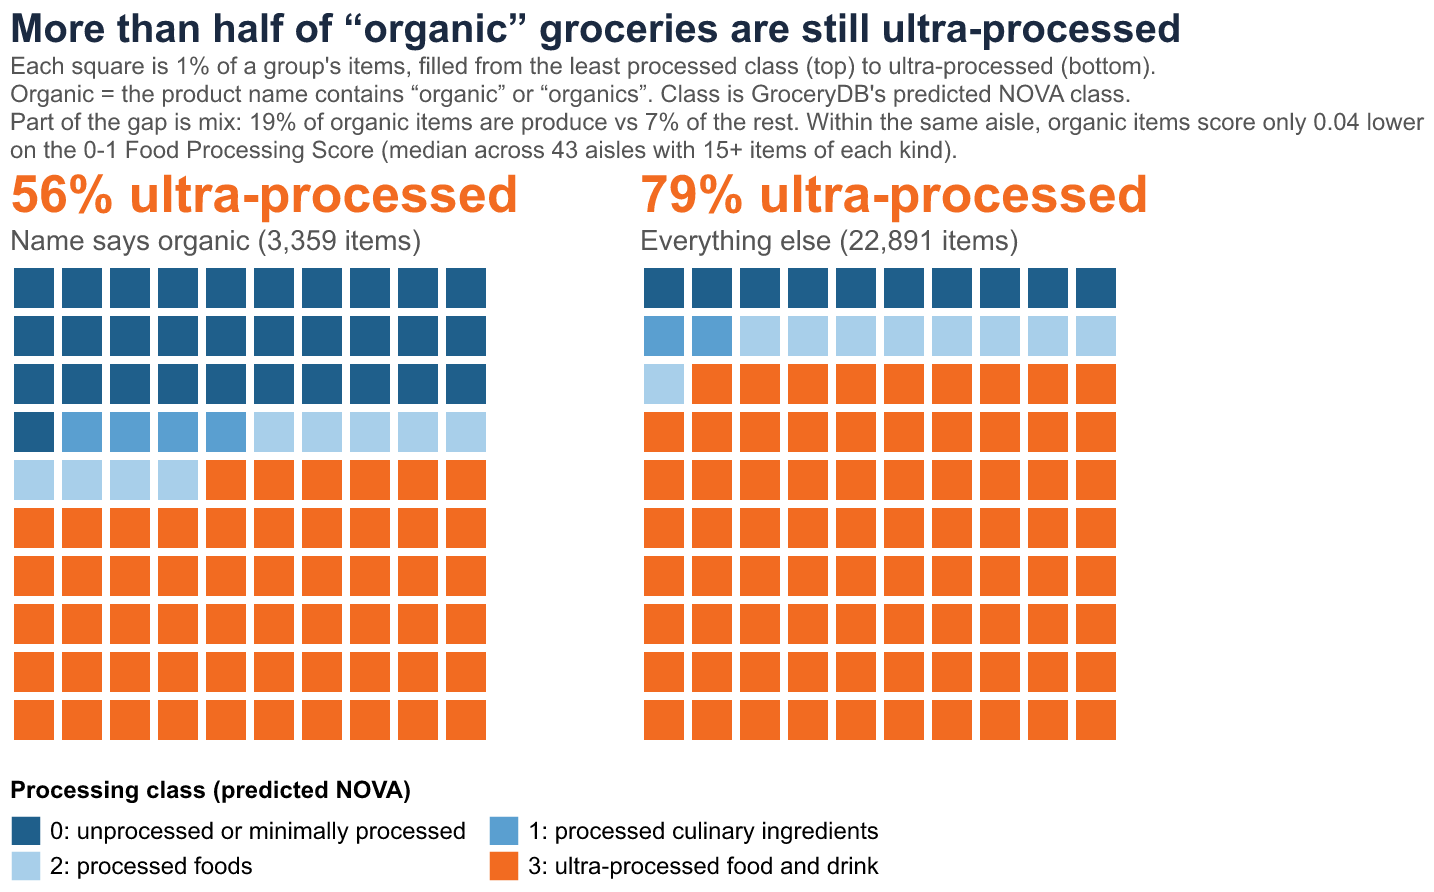
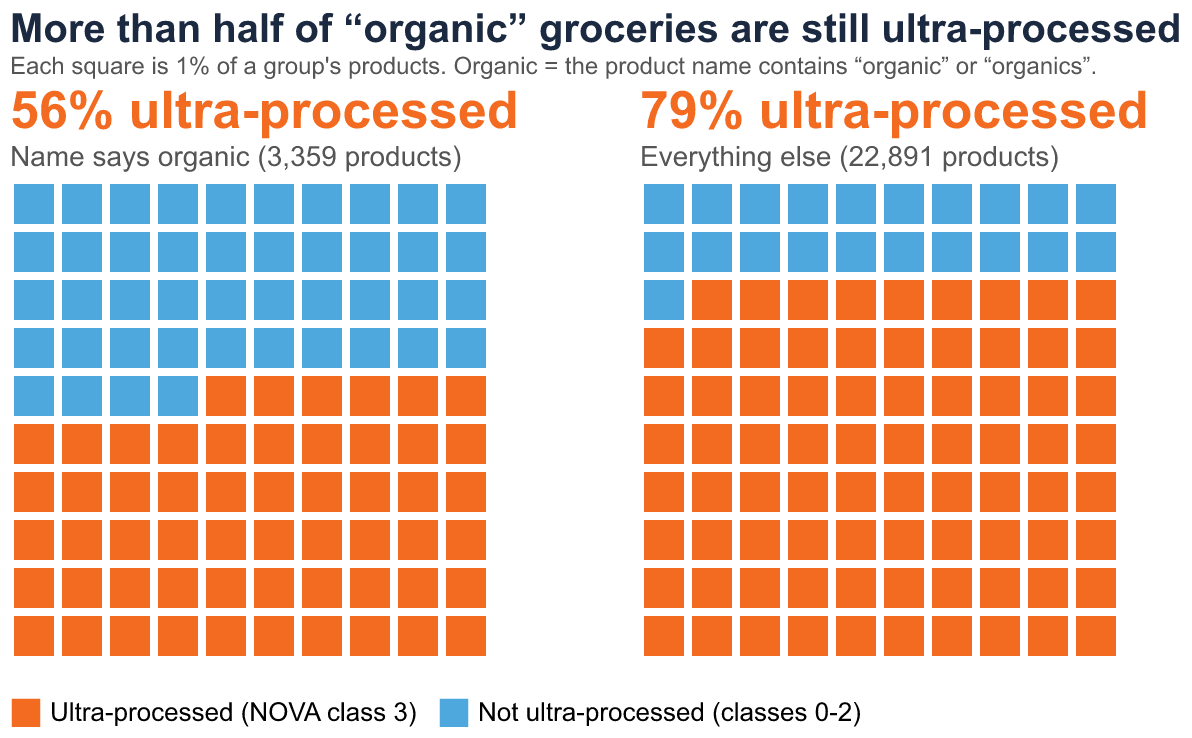
Project 1: simplify plot 2 to ultra-processed vs not, with a one-line subtitle

diff --git a/Project-1/project1/organic_plot.py b/Project-1/project1/organic_plot.py
@@ -1,45 +1,38 @@
-"""Plot 2: processing-class mix of organic-named products, as unit grids."""
+"""Plot 2: share of organic-named products that are ultra-processed, as unit grids."""
 from __future__ import annotations
 
 import altair as alt
 import pandas as pd
 
 from project1.data import GRID_SIDE, ORGANIC_GROUP, OTHER_GROUP
-from project1.theme import ACCENT, DARK, SUBTITLE, apply_theme
+from project1.theme import ACCENT, CONTEXT, DARK, SUBTITLE, apply_theme
 
-# Least processed class darkest, fading toward class 2, then the accent for
-# ultra-processed so the share the title talks about stands out.
-CLASS_COLORS: tuple[str, ...] = ("#1f5f8b", "#5a9fd0", "#a8cfea", ACCENT)
+ULTRA: str = "Ultra-processed (NOVA class 3)"
+NOT_ULTRA: str = "Not ultra-processed (classes 0-2)"
 
 CELL_PX: int = 24
 CELL_AREA: int = 400
 
 
-def build_organic_plot(
-    grid: pd.DataFrame, aisle_gap: float, n_aisles_compared: int
-) -> alt.TopLevelMixin:
+def build_organic_plot(grid: pd.DataFrame) -> alt.TopLevelMixin:
     """Draw one 10 x 10 grid per group, each cell one percent of its items.
 
     Args:
         grid: Output of :func:`project1.data.organic_class_grid`.
-        aisle_gap: Median within-aisle drop in processing score for organic items.
-        n_aisles_compared: Aisles behind ``aisle_gap``.
 
     Returns:
         A themed horizontal concatenation of the two grids.
     """
-    labels = list(grid.sort_values("nova")["class_label"].unique())
+    grid = grid.assign(kind=grid["ultra"].map({True: ULTRA, False: NOT_ULTRA}))
     color = alt.Color(
-        "class_label:N",
-        title="Processing class (predicted NOVA)",
-        scale=alt.Scale(domain=labels, range=list(CLASS_COLORS)),
+        "kind:N",
+        scale=alt.Scale(domain=[ULTRA, NOT_ULTRA], range=[ACCENT, CONTEXT]),
         legend=alt.Legend(
+            title=None,
             orient="bottom",
-            columns=2,
-            labelFontSize=12,
-            titleFontSize=12,
+            direction="horizontal",
+            labelFontSize=13,
             labelLimit=0,
-            titleLimit=0,
             symbolType="square",
             symbolSize=200,
         ),
@@ -47,16 +40,8 @@ def build_organic_plot(
     panels = [_grid_panel(grid[grid["group"] == group], color) for group in (ORGANIC_GROUP, OTHER_GROUP)]
     title = alt.TitleParams(
         "More than half of “organic” groceries are still ultra-processed",
-        subtitle=[
-            "Each square is 1% of a group's items, filled from the least processed class (top) "
-            "to ultra-processed (bottom).",
-            "Organic = the product name contains “organic” or “organics”. Class is GroceryDB's "
-            "predicted NOVA class.",
-            "Part of the gap is mix: 19% of organic items are produce vs 7% of the rest. Within the same aisle, "
-            f"organic items score only {aisle_gap:.2f} lower",
-            f"on the 0-1 Food Processing Score (median across {n_aisles_compared} aisles with "
-            "15+ items of each kind).",
-        ],
+        subtitle="Each square is 1% of a group's products. Organic = the product name contains "
+        "“organic” or “organics”.",
         color=DARK,
     )
     return apply_theme(alt.hconcat(*panels, spacing=60).properties(title=title))
@@ -71,18 +56,13 @@ def _grid_panel(cells: pd.DataFrame, color: alt.Color) -> alt.Chart:
     return (
         alt.Chart(cells)
         .mark_square(size=CELL_AREA, opacity=1)
-        .encode(
-            x=alt.X("col:O", axis=axis),
-            y=alt.Y("row:O", axis=axis),
-            color=color,
-            tooltip=["class_label"],
-        )
+        .encode(x=alt.X("col:O", axis=axis), y=alt.Y("row:O", axis=axis), color=color)
         .properties(
             width=CELL_PX * GRID_SIDE,
             height=CELL_PX * GRID_SIDE,
             title=alt.TitleParams(
                 f"{pct_ultra:.0f}% ultra-processed",
-                subtitle=f"{group} ({n_items:,} items)",
+                subtitle=f"{group} ({n_items:,} products)",
                 fontSize=26,
                 color=ACCENT,
                 subtitleFontSize=14,

diff --git a/Project-1/project1/data.py b/Project-1/project1/data.py
@@ -29,9 +29,6 @@ ORGANIC_PATTERN: str = r"\borganics?\b"
 ORGANIC_GROUP: str = "Name says organic"
 OTHER_GROUP: str = "Everything else"
 
-# An aisle needs this many organic and this many other items to compare the two.
-MIN_ORGANIC_COMPARE_ITEMS: int = 15
-
 # Cells per side of each unit chart grid; 10 gives one cell per percent.
 GRID_SIDE: int = 10
 
@@ -166,66 +163,38 @@ def is_organic(df: pd.DataFrame) -> pd.Series:
 
 
 def organic_class_grid(df: pd.DataFrame, side: int = GRID_SIDE) -> pd.DataFrame:
-    """Lay out each group's processing-class mix as a square grid of cells.
+    """Lay out each group's ultra-processed share as a square grid of cells.
 
     Each group (organic vs everything else) gets ``side * side`` cells, one per
-    percent when ``side`` is 10. Cell counts per class use largest-remainder
-    rounding so they always add up to the full grid. Cells are filled row by
-    row from the top, least processed class first.
+    percent when ``side`` is 10. Cells are filled row by row from the top,
+    with the ultra-processed cells last so they collect at the bottom.
 
     Args:
         df: Raw GroceryDB table.
         side: Cells per row and column.
 
     Returns:
-        One row per cell with ``group``, ``row``, ``col``, ``nova`` (class
-        number), ``class_label``, ``n_items`` (group size) and ``pct_ultra``.
+        One row per cell with ``group``, ``row``, ``col``, ``ultra`` (bool),
+        ``n_items`` (group size) and ``pct_ultra``.
     """
     cells_total = side * side
-    groups = df.assign(group=np.where(is_organic(df), ORGANIC_GROUP, OTHER_GROUP))
-    rows: list[dict[str, float | int | str]] = []
-    for group in (ORGANIC_GROUP, OTHER_GROUP):
-        classes = groups.loc[groups["group"] == group, "FPro_class"].astype(int)
-        shares = classes.value_counts(normalize=True).reindex(range(4), fill_value=0)
-        exact = shares * cells_total
-        cells = np.floor(exact).astype(int)
-        leftover = cells_total - cells.sum()
-        cells[(exact - cells).sort_values(ascending=False).index[:leftover]] += 1
-        sequence = [nova for nova in range(4) for _ in range(cells[nova])]
-        for i, nova in enumerate(sequence):
+    organic = is_organic(df)
+    rows: list[dict[str, float | int | str | bool]] = []
+    for group, members in ((ORGANIC_GROUP, df[organic]), (OTHER_GROUP, df[~organic])):
+        pct_ultra = (members["FPro_class"] == 3).mean() * 100
+        n_ultra = round(pct_ultra * cells_total / 100)
+        for i in range(cells_total):
             rows.append(
                 {
                     "group": group,
                     "row": i // side,
                     "col": i % side,
-                    "nova": nova,
-                    "class_label": CLASS_LABELS[nova].replace("\n", " "),
-                    "n_items": len(classes),
-                    "pct_ultra": shares[3] * 100,
+                    "ultra": i >= cells_total - n_ultra,
+                    "n_items": len(members),
+                    "pct_ultra": pct_ultra,
                 }
             )
     return pd.DataFrame(rows)
-
-
-def organic_within_aisle_gap(
-    df: pd.DataFrame, min_items: int = MIN_ORGANIC_COMPARE_ITEMS
-) -> tuple[float, int]:
-    """How much lower organic items score than other items in the same aisle.
-
-    Args:
-        df: Raw GroceryDB table.
-        min_items: Items each side of the comparison needs within an aisle.
-
-    Returns:
-        The median, across aisles, of (other median score - organic median
-        score), and the number of aisles compared.
-    """
-    flagged = df.assign(organic=is_organic(df))
-    counts = flagged.groupby(["category", "organic"]).size().unstack(fill_value=0)
-    medians = flagged.groupby(["category", "organic"])["FPro"].median().unstack()
-    usable = (counts[True] >= min_items) & (counts[False] >= min_items)
-    gaps = (medians[False] - medians[True])[usable]
-    return float(gaps.median()), int(usable.sum())
 
 
 def aisle_strip(

diff --git a/Project-1/project1/__main__.py b/Project-1/project1/__main__.py
@@ -12,7 +12,6 @@ from project1.data import (
     aisle_strip,
     load_grocerydb,
     organic_class_grid,
-    organic_within_aisle_gap,
 )
 from project1.organic_plot import build_organic_plot
 
@@ -30,8 +29,7 @@ def main() -> None:
     thirds = aisle_price_thirds(df)
     print(f"least processed third costs more in {(thirds['ratio'] > 1).sum()} of {len(thirds)} aisles")
     save(build_aisle_price_plot(thirds), "plot1_aisle_price.png")
-    aisle_gap, n_compared = organic_within_aisle_gap(df)
-    save(build_organic_plot(organic_class_grid(df), aisle_gap, n_compared), "plot2_organic_mix.png")
+    save(build_organic_plot(organic_class_grid(df)), "plot2_organic_mix.png")
     items, aisles = aisle_strip(df)
     save(build_aisle_strip_plot(items, aisles), "plot3_aisle_strip.png")
 
